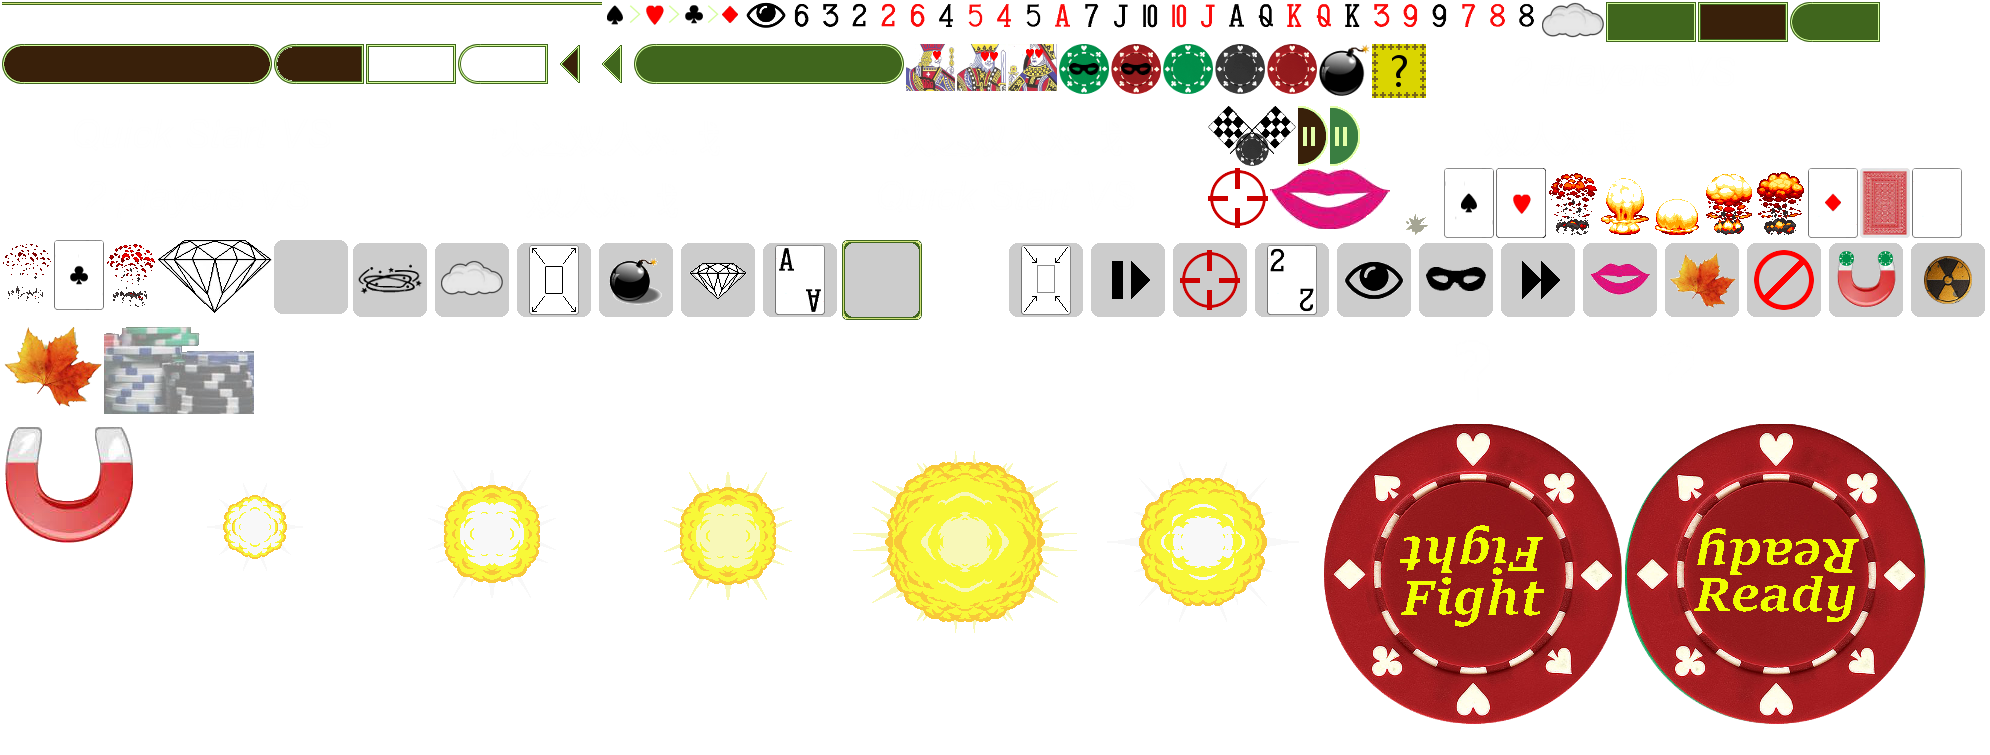
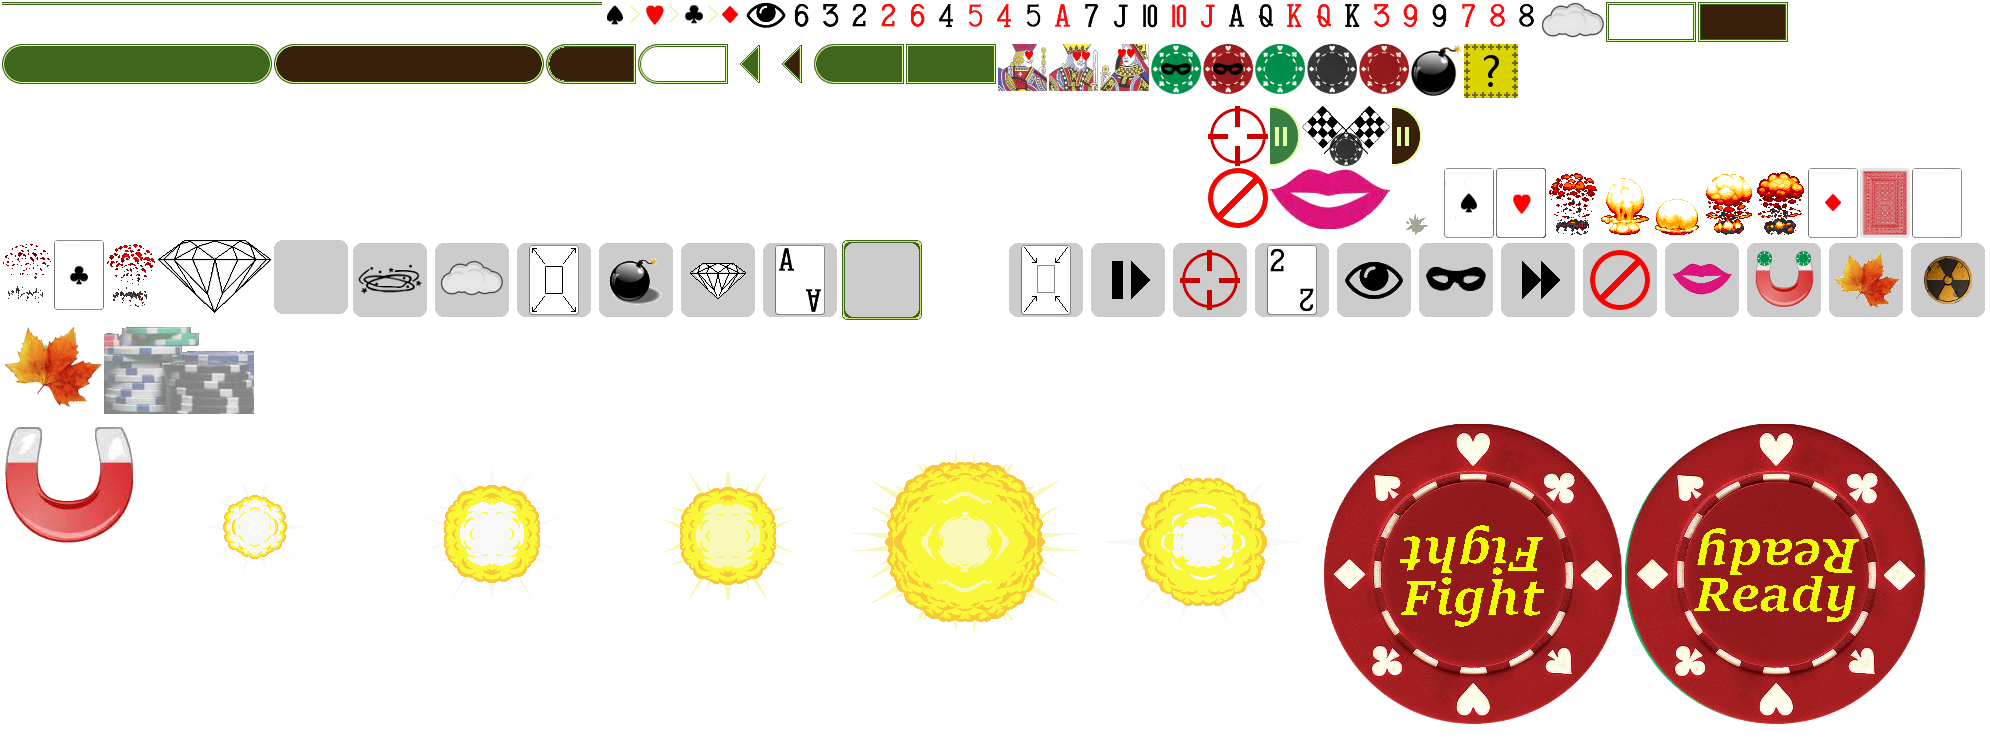
add item:forbid; add sound effect

diff --git a/src/item.js b/src/item.js
@@ -489,6 +489,7 @@ var ShrinkItemModel = ItemModel.extend({
         }
     },
     effect:function(playerSprite, opponentPlayerSprite){
+        cc.audioEngine.playEffect(res.shrink_mp3, false);
         opponentPlayerSprite.model.set({
             "sizeUp":0,
             "sizeDown":this.get("effectTime")
@@ -516,6 +517,7 @@ var EnlargeItemModel = ItemModel.extend({
         }
     },
     effect:function(playerSprite, opponentPlayerSprite){
+        cc.audioEngine.playEffect(res.enlarge_mp3, false);
         playerSprite.model.set({
             "sizeDown":0,
             "sizeUp":this.get("effectTime")
@@ -527,6 +529,24 @@ var EnlargeItemModel = ItemModel.extend({
                 }
             }
         });
+    }
+});
+
+var ForbidItemModel = ItemModel.extend({
+    defaults:function(){
+        return {
+            name:"forbid",
+            displayName:"禁令",
+            maxCharge: 1,
+            maxCoolDown: 1,
+            description:"对手不能使用道具，也不能获得道具。",
+            showCharge: false,
+            effectTime: 10
+        }
+    },
+    effect:function(playerSprite, opponentPlayerSprite){
+        cc.audioEngine.playEffect(res.forbid_mp3, false);
+        opponentPlayerSprite.model.set({ "forbid":this.get("effectTime") } );
     }
 });
 
@@ -759,14 +779,6 @@ var ItemSlotSprite = cc.Sprite.extend({
         clipper.setAlphaThreshold(0);
         clipper.addChild(this.foreground);
 
-//        var test = new cc.Sprite(cc.spriteFrameCache.getSpriteFrame("item-cloud.png"))
-//        test.attr({
-//            x: x,
-//            y: y*3
-//        })
-//        this.foreground.addChild(test);
-//        test.runAction(new cc.MoveTo(1,x,y));
-
         this.chargeLabel = new ccui.Text("", "Arial", 30 );
         this.chargeLabel.enableOutline(cc.color.WHITE, 2);
         this.chargeLabel.setTextColor(cc.color.BLACK);
@@ -838,6 +850,11 @@ var ItemSlotSprite = cc.Sprite.extend({
         this.chargeLabel.setString(this.model.get("charge"));
     },
     useItem:function(){
+        if ( ( this.owner === PLAYER_POSITION_DOWN && gameModel.player1.get("forbid") ) ||
+            ( this.owner === PLAYER_POSITION_UP && gameModel.player2.get("forbid") ) ) {
+            cc.audioEngine.playEffect(res.forbid_mp3, false);
+            return;
+        }
         this.model.set("coolDown", this.model.get("maxCoolDown") );
         this.model.set("charge", this.model.get("charge") - 1);
         if ( this.owner === PLAYER_POSITION_DOWN ) {
@@ -905,6 +922,7 @@ var ITEM_MODEL_CLASS_MAP = {
     "dizzy": DizzyItemModel,
     "enlarge":EnlargeItemModel,
     "fast": FastItemModel,
+    "forbid": ForbidItemModel,
     "kiss": KissItemModel,
     "leaf": LeafItemModel,
     "magnet": MagnetItemModel,

diff --git a/src/player.js b/src/player.js
@@ -59,6 +59,7 @@ var PlayerModel = Backbone.Model.extend({
             sizeDown: 0,
             dizzy: 0,
             spy: 0,
+            forbid: 0,
             needItem: true,
             item: null
         }
@@ -256,7 +257,7 @@ var PlayerModel = Backbone.Model.extend({
         return sizeScale;
     },
     maintain:function(){
-        _.each( ["speedUp","speedDown","sizeUp","sizeDown","dizzy","spy"],function(attr){
+        _.each( ["speedUp","speedDown","sizeUp","sizeDown","dizzy","spy","forbid"],function(attr){
             var value = this.get(attr);
             if ( value > 0 ) {
                 this.set(attr, value - 1);
@@ -270,7 +271,8 @@ var PlayerModel = Backbone.Model.extend({
             speedUp: 0,
             speedDown: 0,
             dizzy: 0,
-            spy: 0
+            spy: 0,
+            forbid: 0
         })
     }
 });
@@ -415,12 +417,14 @@ var PlayerSprite = cc.Sprite.extend({
         this.model.on("change:money",this.onMoneyChange, this);
         this.model.on("change:spy",this.onSpyChange,this);
         this.model.on("change:showHand",this.onShowHandChange,this);
+        this.model.on("change:forbid",this.onForbidChange,this);
     },
     closeEvent:function(){
         this.model.off("change:hands",this.onHandChange);
         this.model.off("change:money",this.onMoneyChange);
         this.model.off("change:spy",this.onSpyChange);
         this.model.off("change:showHand",this.onShowHandChange,this);
+        this.model.off("change:forbid",this.onForbidChange);
     },
     renderMoney:function(){
         this.moneyLabel.setString(this.model.get("money"));
@@ -456,6 +460,25 @@ var PlayerSprite = cc.Sprite.extend({
         current = current || this.model.get("showHand");
         if ( !prev && current || prev && !current ) {
             this.onHandVisibilityChange();
+        }
+    },
+    onForbidChange:function(){
+        var prev = this.model.previous("forbid");
+        var current = this.model.get("forbid");
+        if ( !prev && current ) {
+            this.forbidSprite = new cc.Sprite(cc.spriteFrameCache.getSpriteFrame("forbid.png"));
+            this.forbidSprite.attr({
+                x: this.itemSlotSprite.x,
+                y: this.itemSlotSprite.y,
+                scaleX: 2,
+                scaleY: 2,
+                zIndex: 100
+            })
+            this.addChild(this.forbidSprite);
+            this.forbidSprite.runAction(cc.spawn(cc.fadeIn(times.forbid), cc.scaleTo(times.forbid, 1.5,1.5)));
+        } else if ( prev && !current ) {
+            this.forbidSprite.removeFromParent(true);
+            this.forbidSprite = null;
         }
     },
     isHandVisible:function(){

diff --git a/src/poker-card.js b/src/poker-card.js
@@ -172,6 +172,16 @@ var NormalCardSprite = cc.Sprite.extend({
     canBeTouch:function(){
         return !this.alreadyTaken && this.touchable;
     },
+    bounceBack:function(){
+        cc.audioEngine.playEffect(res.spring_mp3, false);
+        this.stopAllActions();
+        if ( this.y < cc.winSize.height/2 ) {
+            this.y = dimens.player1Y + 1;
+        } else this.y = dimens.player2Y - 1;
+
+        this.speedY = -this.speedY;
+        this.onTouchRelease();
+    },
     playerTakeCard:function(player){
         if ( this.alreadyTaken )
             return;
@@ -182,14 +192,7 @@ var NormalCardSprite = cc.Sprite.extend({
             player.addHand(this.model);
             this.alreadyTaken = true;
         } else {
-            cc.audioEngine.playEffect(res.spring_mp3, false);
-            this.stopAllActions();
-            if ( this.y < cc.winSize.height/2 ) {
-                this.y = dimens.player1Y + 1;
-            } else this.y = dimens.player2Y - 1;
-
-            this.speedY = -this.speedY;
-            this.onTouchRelease();
+            this.bounceBack();
         }
     },
     moveToPoint:function(x,y, callback, context){

diff --git a/src/resource.js b/src/resource.js
@@ -14,6 +14,9 @@ var res = {
     slow_down_mp3: "res/slow-down.mp3",
     speed_up_mp3: "res/speed-up.mp3",
     sniper_mp3: "res/sniper.mp3",
+    shrink_mp3: "res/shrink.mp3",
+    enlarge_mp3: "res/enlarge.mp3",
+    forbid_mp3: "res/forbid.mp3",
 
     ready_mp3: "res/ready.mp3",
     fight_mp3: "res/fight.mp3",
@@ -132,7 +135,8 @@ var times = {
     getMoney: 0.25,
     gameOver: 0.9,
     letMeSee: 0.5,
-    slot_machine: 2.2
+    slot_machine: 2.2,
+    forbid: 0.4
 };
 
 var dimens = {

diff --git a/src/mode-select.js b/src/mode-select.js
@@ -20,7 +20,7 @@ var setting = {};
 
 var ITEM_PER_LINE = 5;
 
-var INIT_ITEMS = ["ace","bomb","cloud","diamond", "dizzy","enlarge","fast","kiss","leaf", "shrink","spy","slow","sniper","thief", "two"];
+var INIT_ITEMS = ["ace","bomb","cloud","diamond", "dizzy","enlarge","fast","forbid","kiss","leaf", "shrink","spy","slow","sniper","thief", "two"];
 var UNLOCKABLE_ITEMS = [ "magnet","nuke" ];
 
 var ModeSelectLayer = PlayerRotateLayer.extend({

diff --git a/src/special-card.js b/src/special-card.js
@@ -57,6 +57,10 @@ var ItemSpecialCardSprite = NormalCardSprite.extend({
     playerTakeCard:function(player){
         if ( this.alreadyTaken )
             return;
+        if (player.get("forbid")) {
+            this.bounceBack();
+            return;
+        }
         this.stopAllActions();
         this.setTag(0);
 
